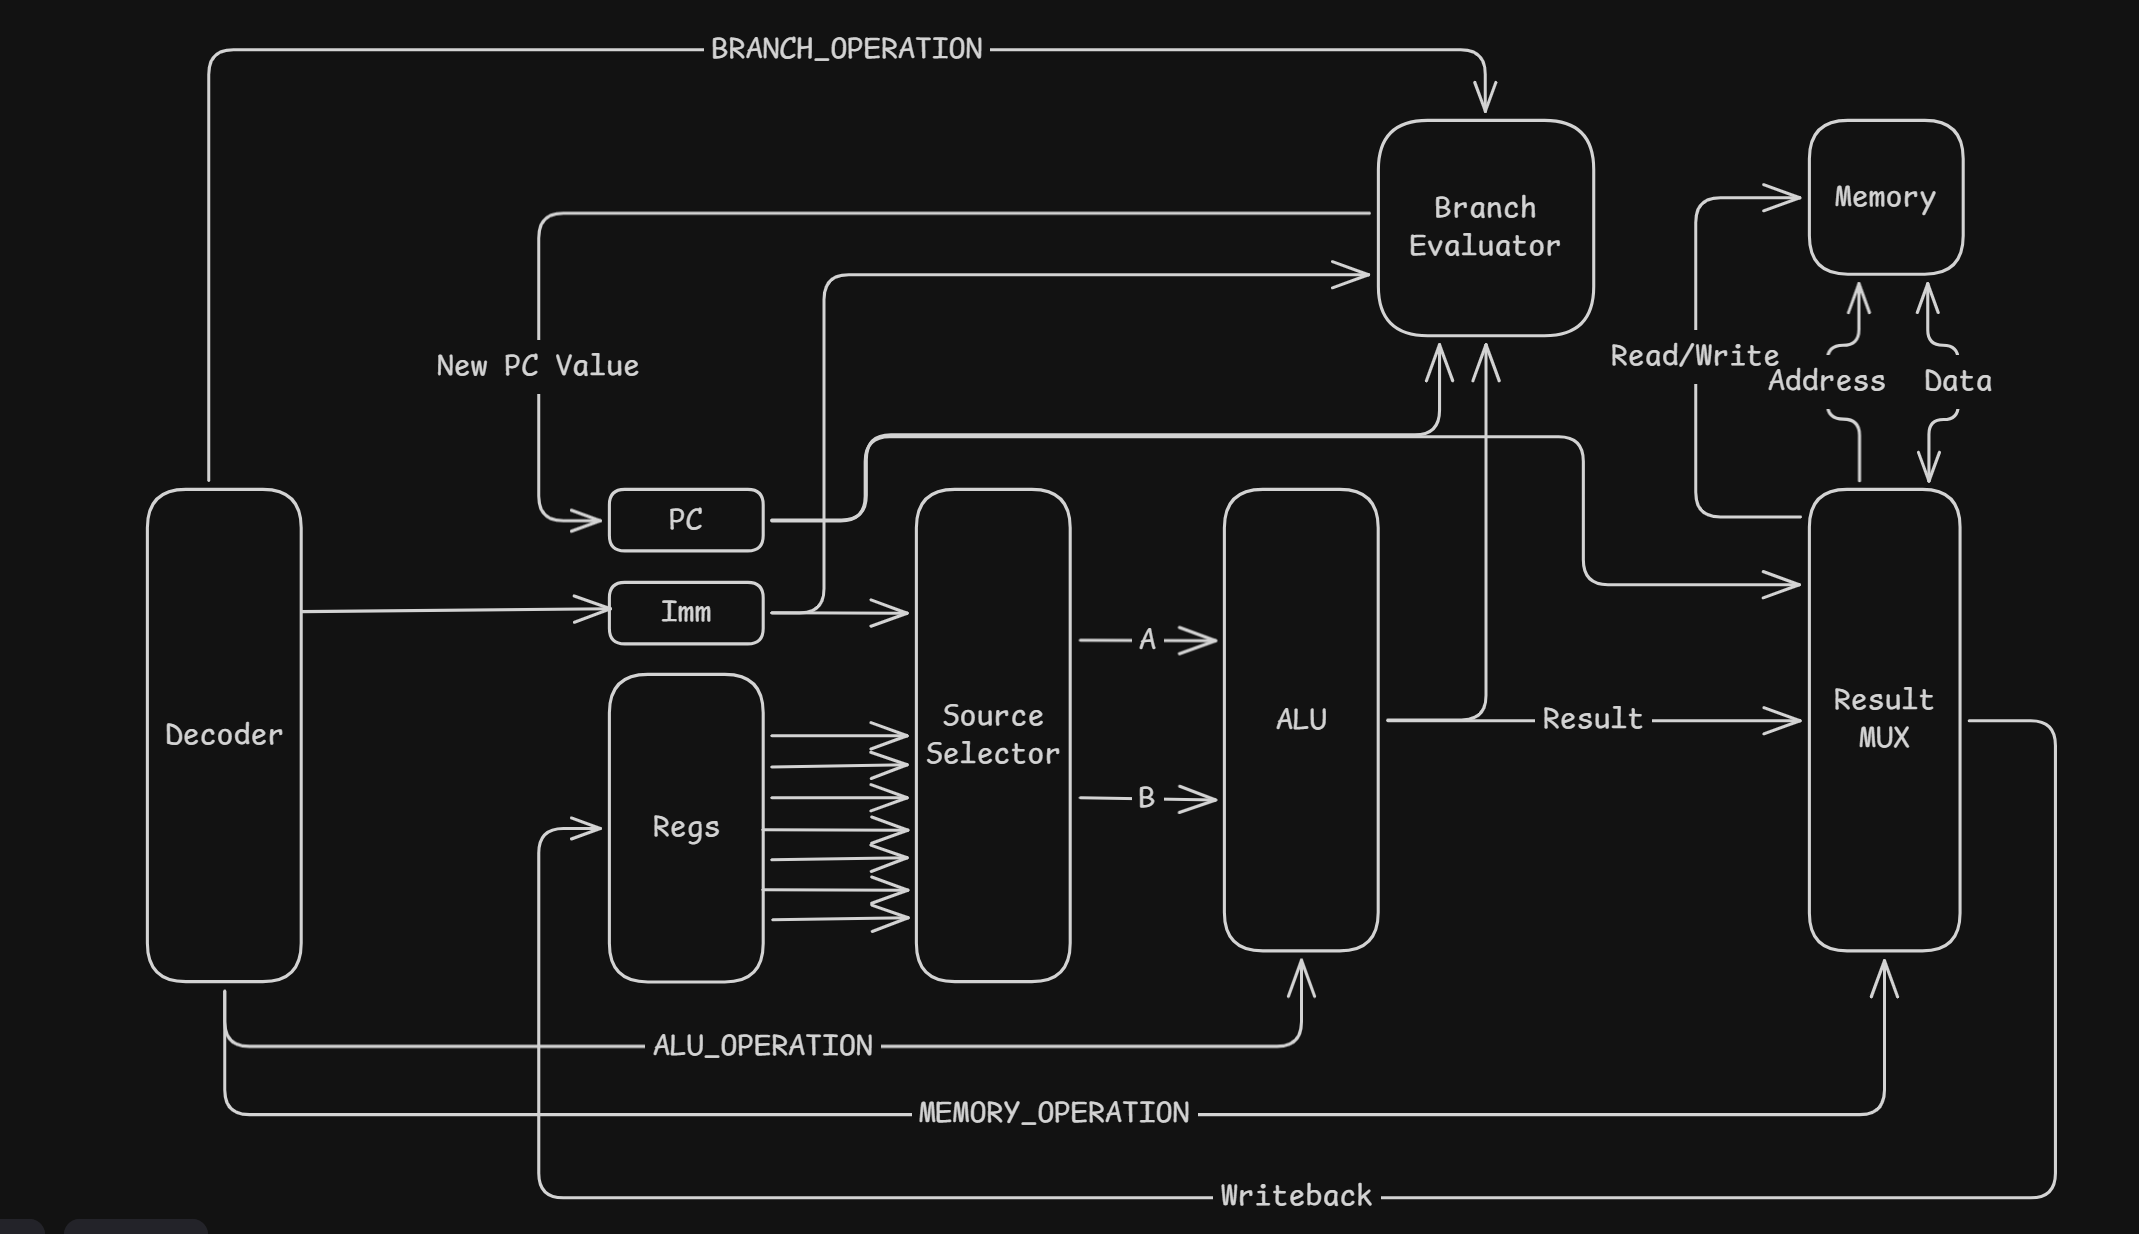
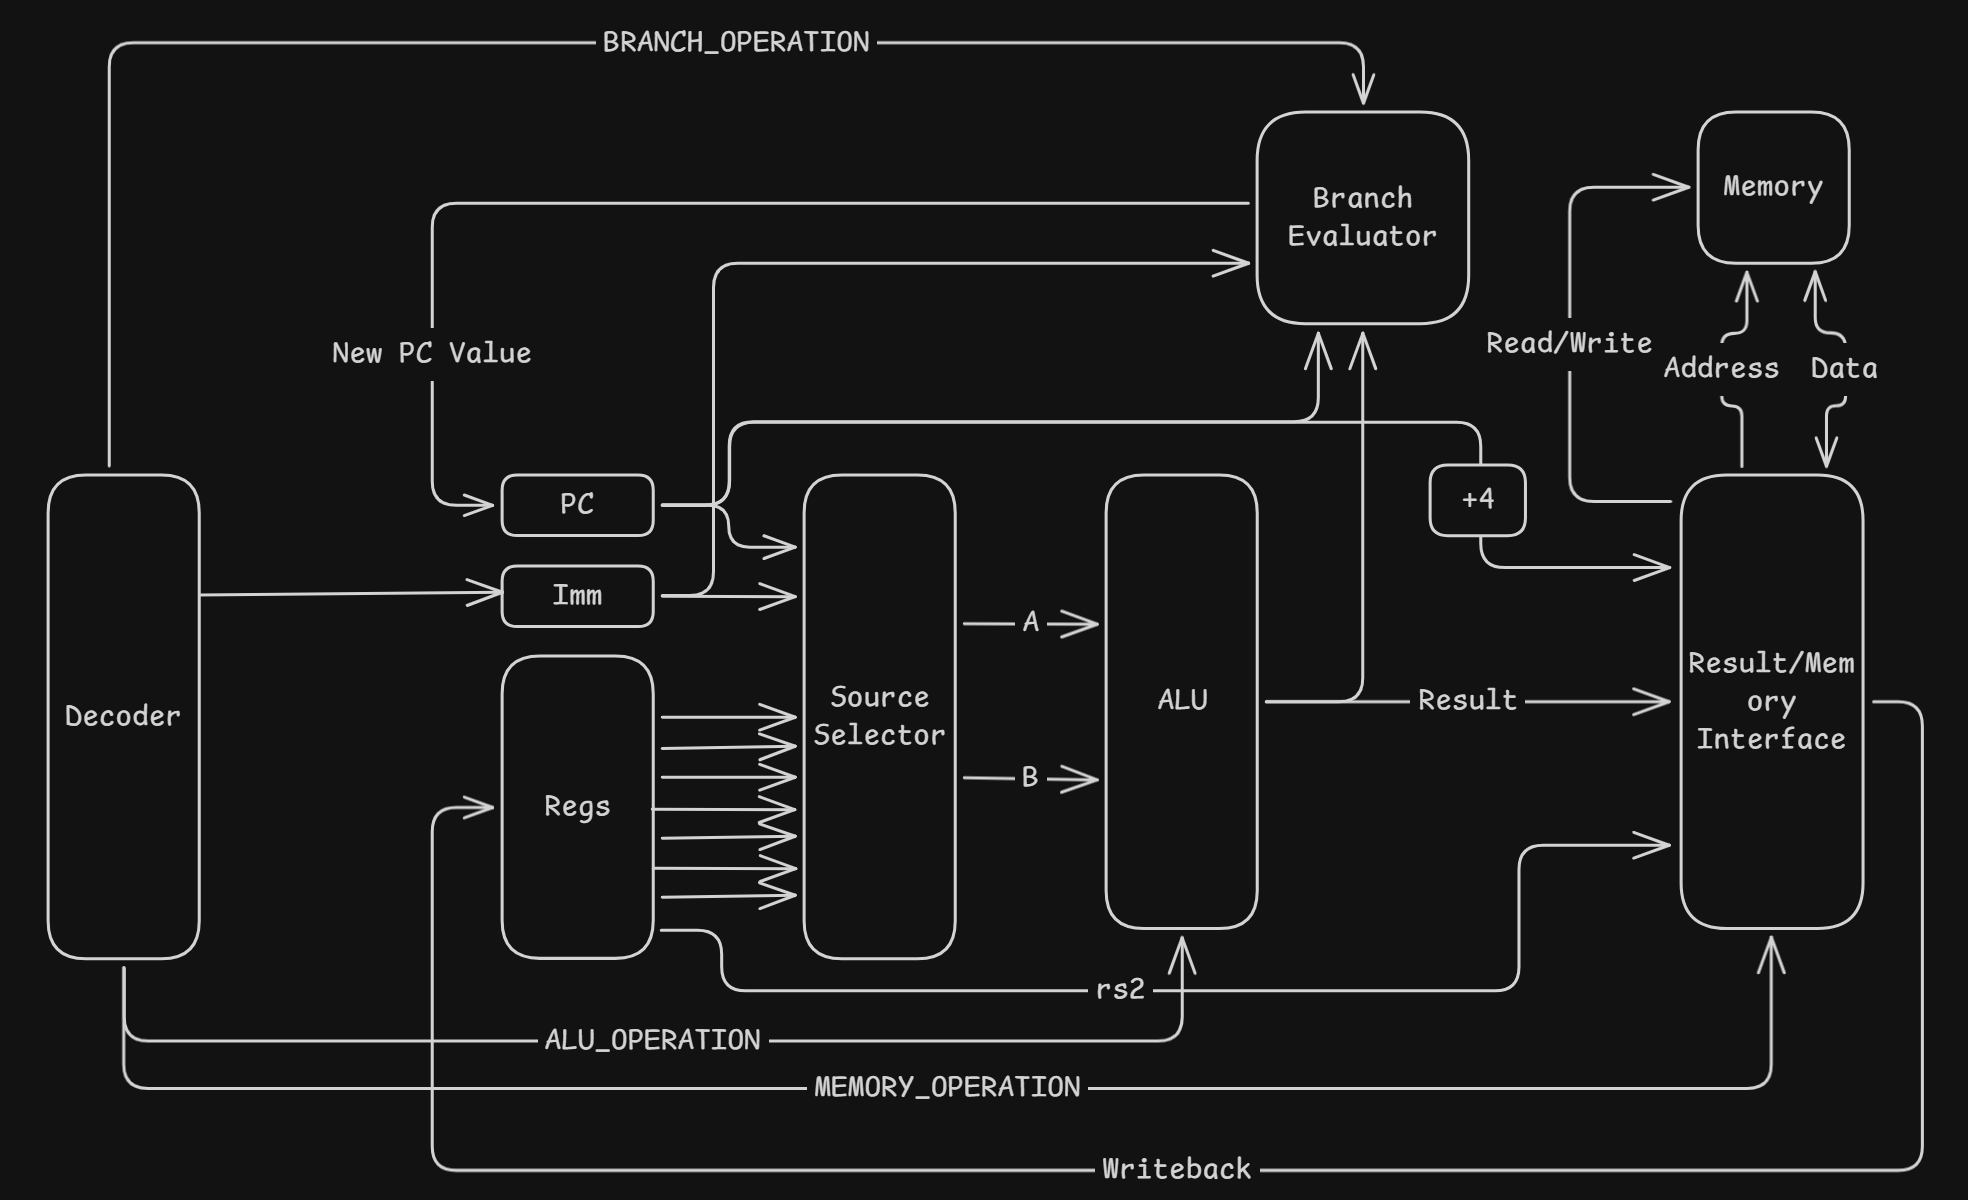
Untested ALU source mux

diff --git a/tb/decoder.py b/tb/decoder.py
@@ -301,10 +301,10 @@ class BRANCH_OPERATION(IntEnum):
 
 # typedef enum logic[1:0] { ... } src_set_t
 class SOURCE_SET(IntEnum):
-    RS1_RS2 = 0
-    RS1_IMM = 1
-    PC_IMM =  2
-    INVALID_3 = 3
+    RS1_RS2 = 0b10
+    RS1_IMM = 0b11
+    PC_IMM =  0b01
+    INVALID_0 = 0b00
     
 class instruction(LogicArray):
     def __init__(self, value: Union[int, str, Iterable[Union[Union[str, int, bool], "Logic"]]]):
